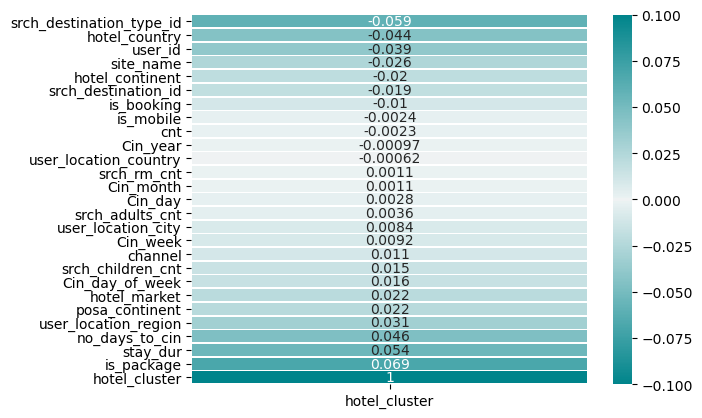
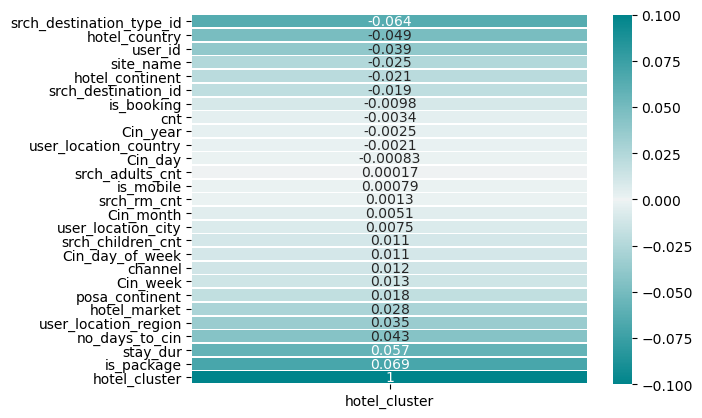
Cleaning fixes and addition of few graphs
Is_package graph added
No_day_to_cin graph modified

diff --git a/code/ii_b_exploratory_analysis.py b/code/ii_b_exploratory_analysis.py
@@ -3,14 +3,16 @@ from ii_a_clean_data import train
 import matplotlib.pyplot as plt
 import seaborn as sns
 import os.path
+import pandas as pd
+import matplotlib.patches as mpatches
 
-print(train.columns)
 
 def save_fig(fname, verbose=True):
     path = os.path.join('figs', fname)
     plt.savefig(path, bbox_inches='tight')
     if verbose:
         print("Figure saved as '{}'".format(path))
+
 
 # correlation
 cmap = sns.diverging_palette(200, 200, 100, as_cmap=True)
@@ -22,7 +24,6 @@ sns.heatmap(corr_table.loc["hotel_cluster", :].sort_values().values.reshape(cols
             yticklabels=list(corr_table.loc["hotel_cluster", :].sort_values().index),
             xticklabels=['hotel_cluster'], annot=True, linewidths=0.5, center=0, cmap=cmap, vmin=-0.1, vmax=0.1,
             robust=True)
-
 save_fig('corr_2')
 
 # count plots
@@ -30,6 +31,17 @@ save_fig('corr_2')
 #     plt.figure(figsize=(32, 12))
 #     sns.countplot(x=var, data=train, palette='rainbow', orient='h')
 #     save_fig("counts/"+var)
+
+
+# plt.figure(figsize=(52, 12))
+# sns.countplot(x='no_days_to_cin', data=train, palette='rainbow', orient='h')
+# save_fig("counts/no_days_to_cin")
+
+plt.figure(figsize=(22, 12))
+hist1 = sns.histplot(x='no_days_to_cin', data=train, color="#b7c9e2", discrete=None,
+                     binwidth=3)
+hist1.margins(x=0)
+save_fig("counts/no_days_to_cin_hist")
 
 plt.figure(figsize=(32, 12))
 ax = sns.countplot(x='hotel_cluster', data=train, palette='rainbow', orient='h')
@@ -39,15 +51,51 @@ for patch in ax.patches:
     percentage = '{:.1f}%'.format(100 * patch.get_height()/total)
     x = patch.get_x() + patch.get_width()
     y = patch.get_height()
-    ax.annotate(percentage, (x, y),ha='center')
+    ax.annotate(percentage, (x, y), ha='center')
 save_fig('counts/hotel_cluster')
 
 # no_days_to_cin
+print("ii-b-no-days")
 print(train['no_days_to_cin'].describe())
 
 plt.figure()
 sns.boxplot(x="hotel_cluster", y="no_days_to_cin", data=train[(train["hotel_cluster"]==39) |(train["hotel_cluster"]==45) |(train["hotel_cluster"]==27) | (train["hotel_cluster"]==74)])
 save_fig("pasta")
+
+
 # hotel_cluster, srch_destination_, no_days_to_cin, user_location_region
 
-plt.figure()
+# is_package graphs
+# is package percentage stacked bar plot
+train_is_package_subset = train.loc[:, ["is_package", "hotel_cluster"]]
+df_is_package = pd.DataFrame()
+for cluster in train_is_package_subset.loc[:, "hotel_cluster"].unique():
+    subset_is_package_value = train_is_package_subset.loc[
+        train_is_package_subset["hotel_cluster"] == cluster, "is_package"]
+    is_package_count = subset_is_package_value.where(subset_is_package_value == 1).count()
+    row_is_package = pd.DataFrame({
+        "hotel_cluster": [cluster],
+        "is_package_count": [is_package_count],
+        'not_is_package_count': [subset_is_package_value.count() - is_package_count],
+        "is_package_proportion": [is_package_count/subset_is_package_value.count()],
+        'total percentage': [1],
+        "total count": [subset_is_package_value.count()]
+    })
+    df_is_package = df_is_package.append(row_is_package, ignore_index=True)
+df_is_package = df_is_package.sort_values(by=["hotel_cluster"])
+df_is_package = df_is_package.reset_index(drop=True)
+print(df_is_package["is_package_proportion"].quantile(q=0.9))
+plt.figure(figsize=(32, 12))
+bar1 = sns.barplot(x="hotel_cluster", y='total percentage', data=df_is_package, color='#fffcc4', fill=False)
+bar2 = sns.barplot(x='hotel_cluster', y='is_package_proportion', data=df_is_package, color='#758000')
+top_bar = mpatches.Patch(color='#fffcc4', label='is_package = 0', fill=False)
+bottom_bar = mpatches.Patch(color='#758000', label='is_package = 1')
+plt.legend(handles=[top_bar, bottom_bar])
+save_fig("stacked_barplot_is_package")
+
+# is_percentage summary graph -
+# based on the above 75% of hotel clusters have less than 30% bookings/clicks generated
+# as a part of a package
+
+# also only 10% of hotel clusters have more than 47% booking/clicks generated as a part of a package
+

diff --git a/code/ii_a_clean_data.py b/code/ii_a_clean_data.py
@@ -2,17 +2,28 @@ import pandas as pd
 import datetime
 from i_download_data import *
 
+
 def clean_data(df):
     # reason is approximately 36% of data is nas - too high
     df.drop('orig_destination_distance', axis=1, inplace=True)
 
     # TODO: include checks for variables
     dates_to_vars(df)
-    # TODO: figure out why this is not working!!!!
-    # df = df[df['stay_dur'] >= 0.0]
+    # TODO: figure out why this is not working!!!! - DONE
 
+    # Removing rows with negative values of no_days_to_cin
+    df = df.loc[df['no_days_to_cin'] >= 0.0, :]
+    df = df.reset_index(drop=True)
+
+    # Removing rows with negative values of stay_dur
+    df = df.loc[df['stay_dur'] >= 0.0, :]
+    df = df.reset_index(drop=True)
+
+    # ????
     cols_names_nas = df.columns.where(df.isna().sum(axis=0) > 0).dropna().tolist()
     fill_nas_with_max(cols_names_nas, df)
+
+    return df
 
 
 # getting useful info from date variables
@@ -32,10 +43,12 @@ def dates_to_vars(df):
 
     df.drop(['srch_ci', 'srch_co', 'date_time'], axis=1, inplace=True)
 
+
 def fill_nas_with_max(cols, df):
     for col in cols:
         max_occurence = df[col].mode()[0]
         df[col].fillna(max_occurence, inplace=True)
 
-clean_data(train)
-clean_data(test)
+
+train = clean_data(train)
+test = clean_data(test)

diff --git a/code/data.py b/code/data.py
@@ -67,28 +67,7 @@ cols_corr = corr_table.columns.size
 
 
 # is_package bar graph
-train_subset = train.loc[:, ["is_package", "hotel_cluster"]]
-df_is_package = pd.DataFrame()
-print(train_subset.loc[train_subset["hotel_cluster"] == 3, 'is_package'].unique())
-for cluster in train_subset.loc[:, "hotel_cluster"].unique():
-    subset_is_package_value = train_subset.loc[train_subset["hotel_cluster"] == cluster, "is_package"].unique()
-    # print(subset_is_package_value)
-    if len(subset_is_package_value) > 1:
-        type_of_is_package = "Mixed is_package values"
-    else:
-        if subset_is_package_value == 1:
-            type_of_is_package = "All is_package values are 1"
-        else:
-            type_of_is_package = 'All is_package values are 0'
-    row_is_package = pd.DataFrame({
-        "hotel_cluster": [cluster],
-        "type_of_is_package": [type_of_is_package]
-    })
-    df_is_package = df_is_package.append(row_is_package, ignore_index=True)
-df_is_package = df_is_package.sort_values(by=["hotel_cluster"])
-plt.figure()
-sns.countplot(x='type_of_is_package', data=df_is_package, palette='rainbow')
-du.save_fig('count_graph_hotel_cluster_by_is_package')
+
 # train.info()
 # plt.figure()
 # sns.boxplot(x="hotel_cluster", y="is_package", data=train)
